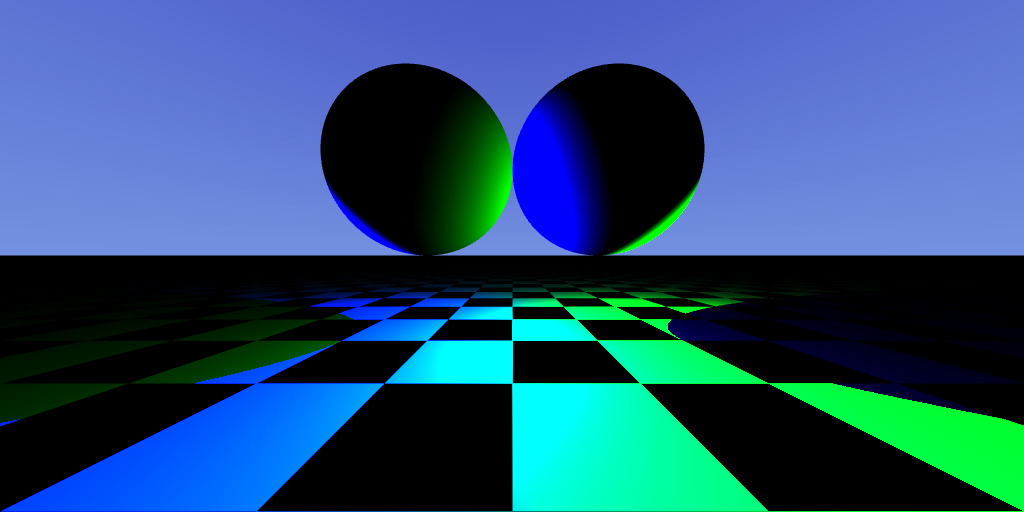
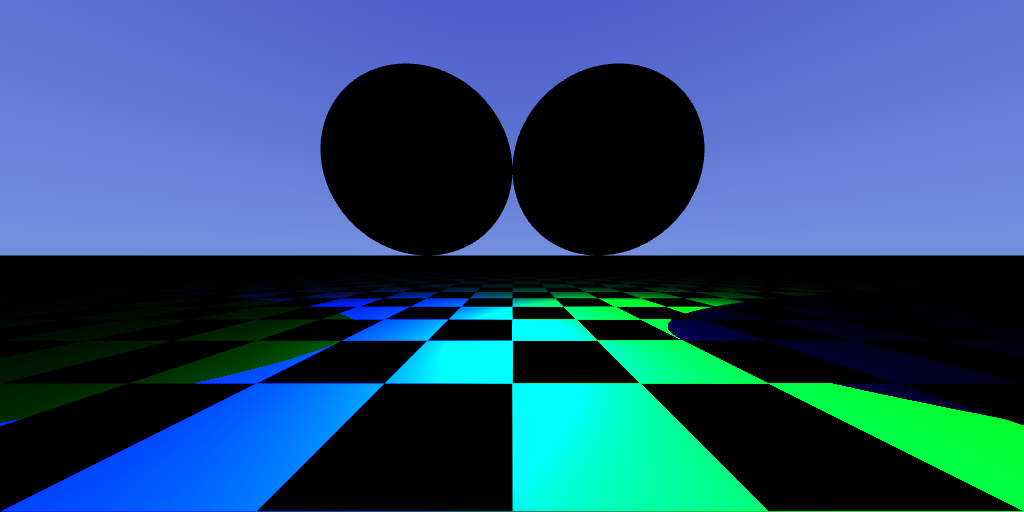
lun. 24 mars 2025 14:59:55 CET

Changed region(s): [[0.375, 0.1562, 0.625, 0.5], [0.625, 0.375, 0.6875, 0.4688], [0.3125, 0.375, 0.375, 0.4688]]

diff --git a/src/synthese.cpp b/src/synthese.cpp
@@ -124,7 +124,7 @@ Scene scene5() {
     scene.add(new DirectionalLight(Color(1.0f, 1.0f, 1.0f), Vector(-4.0f, 6.0f, 1.0f)));
 
     /* ---- Objects ---- */
-    scene.add("data/synthese/dodecahedron.obj", translate(-2.0f, 0.0f, -4.0f).scale(2.0f), Red());
+    scene.add("data/synthese/dodecahedron.obj", translate(-2.0f, 0.0f, -4.0f).scale(2.0f), White());
     scene.add("data/synthese/cube.obj", translate(2.0f, 0.0f, -4.0f).scale(0.5f), Red());
 
     return scene;
@@ -132,10 +132,10 @@ Scene scene5() {
 
 int main() {
     try {
-        // scene1().render("data/synthese/scene1.png", 1024, 512);
-        // scene2().render("data/synthese/scene2.png", 1024, 512);
-        // scene3().render("data/synthese/scene3.png", 1024, 512);
-        // scene4().render("data/synthese/scene4.png", 1024, 512);
+        scene1().render("data/synthese/scene1.png", 1024, 512);
+        scene2().render("data/synthese/scene2.png", 1024, 512);
+        scene3().render("data/synthese/scene3.png", 1024, 512);
+        scene4().render("data/synthese/scene4.png", 1024, 512);
         scene5().render("data/synthese/scene5.png", 1024, 512);
     } catch(const std::exception& exception) {
         std::cerr << "ERROR : " << exception.what() << '\n';

diff --git a/src/synthese/Scene.cpp b/src/synthese/Scene.cpp
@@ -153,12 +153,10 @@ Hit Scene::getClosestHit(const Ray& ray) const {
     for(const Object* object : objects) {
         Hit hit = object->intersect(ray);
 
-        if(hit.intersection != infinity) {
-            if(closest.object == nullptr || hit.intersection < closest.intersection) {
-                closest.intersection = hit.intersection;
-                closest.normal = hit.normal;
-                closest.object = object;
-            }
+        if(hit.intersection != infinity && (closest.object == nullptr || hit.intersection < closest.intersection)) {
+            closest.intersection = hit.intersection;
+            closest.normal = hit.normal;
+            closest.object = object;
         }
     }
 

diff --git a/src/synthese/Object.cpp b/src/synthese/Object.cpp
@@ -51,7 +51,14 @@ Hit Sphere::intersect(const Ray& ray) const {
     float delta = std::sqrt(b * b - 4.0f * a * c);
 
     if(delta > 0.0f) {
-        hit.intersection = std::min((-b + delta) / 2.0f * a, -(b + delta) / 2.0f * a);
+        hit.intersection = infinity;
+
+        float x1 = (-b + delta) / 2.0f * a;
+        float x2 = (-b - delta) / 2.0f * a;
+
+        if(x1 >= 0.0f) { hit.intersection = x1; }
+        if(x2 >= 0.0f && x2 < hit.intersection) { hit.intersection = x2; }
+        if(hit.intersection == infinity) { return hit; }
     } else if(delta == 0.0f) {
         hit.intersection = -b / 2.0f * a;
     } else {
